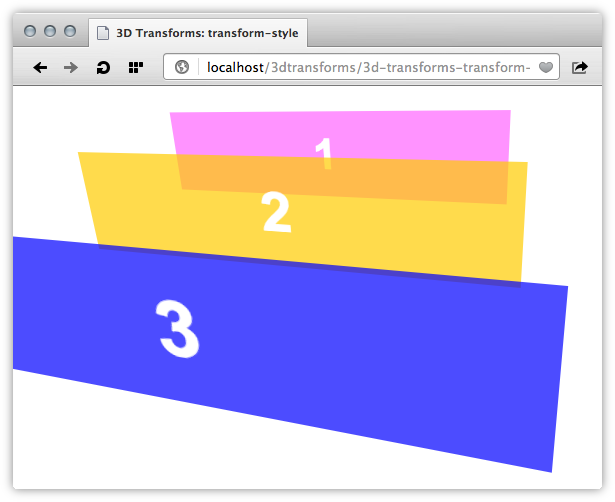
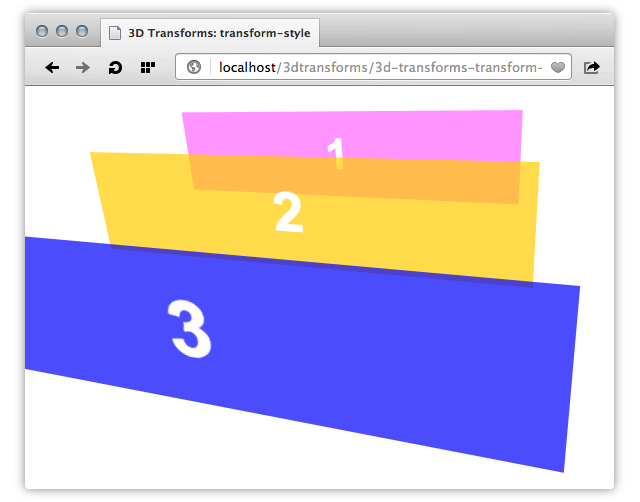
Adding new screen shots. And rewriting section on transform-style.

diff --git a/index.html b/index.html
@@ -33,6 +33,7 @@
 		    <code>rotate3d()</code>, <code>rotateX()</code> and <code>rotateY()</code></a>
 		</li>
 	</ol></li>
+	<li><a href="#learnmore">Learn More</a></li>
 </ol>
 
 <p>Opera 14 adds a lot of goodies under its hood, including <a href="http://www.w3.org/TR/css3-transforms/">three-dimensional CSS transforms</a> (<a href="http://dev.opera.com/articles/view/css3-transitions-and-2d-transforms/">2D transforms</a> have been available since Opera 10.50). In this article we'll dig in to 3D transforms, looking at the fundamental differences compared to 2D, the 3D transforms available, and sharing some demos to show how these work.</p>
@@ -51,7 +52,7 @@
 <p>If we think of our drawing surface as a <a href="http://en.wikipedia.org/wiki/Coordinate_system">coordinate system</a>, we can also think of our vanishing point as the <strong>origin</strong>. In a three-dimensional coordinate system, the origin is the location where the point along the x, y, and z axes is equal to zero (0,0,0) (see <a href="#origin">Figure 2</a>).</p>
 
 <figure id="origin">
-<!-- SVG --->
+<!-- SVG -->
 <svg
    xmlns:dc="http://purl.org/dc/elements/1.1/"
    xmlns:cc="http://creativecommons.org/ns#"
@@ -318,7 +319,7 @@
     perspective-origin: 200% 1500px;
 }</code></pre>
 
-<p>As <a href="#persporigin">shown below</a>, this CSS creates the effect of looking at our child elements towards a point that is 200% along the x-axis and 1500 pixels along the y-axis.</p>
+<p>As <a href="#persporigin">shown below</a> in Figure 4, this CSS creates the effect of looking at our child elements towards a point that is 200% along the x-axis and 1500 pixels along the y-axis.</p>
 
 <figure id="persporigin">
 <img src="3d-transforms-perspective-origin.png">
@@ -367,13 +368,20 @@
 
 <h4 id="transstyle">Setting a <code>transform-style</code></h4>
 
-<p>As with a paper drawing, three-dimensional transforms map three dimensions of coordinates into the two dimensions of a screen. By default, transformed objects behave as a single plane. However, we can mimic multi-sided objects by using the <code>transform-style</code> property. Valid values for the <code>transform-style</code> property are <code>flat</code> and <code>preserve-3d</code>. The default is <code>flat</code>.</p>
+<p>As with a paper drawing, three-dimensional transforms map three dimensions of coordinates into the two dimensions of a screen. By default, transformed objects behave as a single plane. To mimic depth and dimension, we need to explicitly change that behavior, with the the <code>transform-style</code> property. Valid values for the <code>transform-style</code> property are <code>flat</code> and <code>preserve-3d</code>. The default is <code>flat</code>.</p>
 
-<p>In <a href="#transformstyle">Figure 6</a> below, we have two cards with the same markup and largely the same CSS. However, for the left card, the value of the <code>transform-style</code> property is <code>flat</code>. For the right card, the value is <code>preserve-3d</code>. If we flip them over, as shown in our <a href="3d-transforms-transform-style.html">3D transform-style demo</a>, we can see that the left card appears to be a flattened plane. We can, however, see the other side of the card on the right.</p>
+<p>In <a href="#transformstyle">Figure 6</a> below, we have three objects whose positions have been translated in the z-direction. Their parent element has also been rotated slightly. When the value of <code>transform-style</code> &#8212; applied here to the parent element &#8212; is <code>preserve-3d</code>, we see that the transformation shows three elements in faux three dimensional space.</p> 
 
 <figure id="transformstyle">
 <img src="3d-transforms-transstyle.png">
-<figcaption>Figure 6: The card on the left has a <code>transform-style</code> of <code>flat</code> while the one on the right has a value of <code>preserve-3d</code>.</figcaption>
+<figcaption>Figure 6: The parent element for these three objects has a <code>transform-style</code> value of <code>preserve-3d</code>.</figcaption>
+</figure>
+
+<p>Contrast that with <a href="#transformstyleflat">Figure 7</a>, in which the value of <code>transform-style</code> is <code>flat</code>. These same objects are now rendered as a flattened stack (<a href="http://localhost/3dtransforms/3d-transforms-transform-style.html">demo</a>).</p>
+
+<figure id="transformstyleflat">
+<img src="3d-transforms-transstyle-flat.png">
+<figcaption>Figure 7: The parent element in this example has a  <code>transform-style</code> value of <code>flat</code>, instead of <code>preserve-3d</code>.</figcaption>
 </figure>
 
 <p>Using <code>transform-style: preserve-3d</code> also establishes a stacking context but in some cases, a CSS property can override this. According to their respective specifications, the following properties and values require the user agent to create a flattened representation of child elements before they can be applied.</p>
@@ -384,7 +392,7 @@
 	<li><code>filter</code> when the value is other than <code>none</code></li>
 </ul>
 
-<p></p>
+<p>If your transform isn't rendering correctly, despite using <code>transform-style: preserve-3d</code>, one of these properties is probably the culprit.</p>
 
 
 <h2 id="transformfuncs">The transform functions</h2>
@@ -454,7 +462,7 @@ console.log(matrix);</code></pre>
 
 <p>Using <code>getComputedStyle()</code> has its limits of course. It only returns the computed value for a single element. It does not tell you the whether its parent element has also been transformed.</p>
 
-<p>Since using <code>matrix3d()</code> can make your CSS more obtuse than necessary, it's best to stick to the transform functions. I'll assume you're already familiar with two-dimensional transforms. For the rest of this article, we'll focus exclusively on 3D transform functions. if you need a primer on 2D transforms, read <a href="http://dev.opera.com/articles/view/css3-transitions-and-2d-transforms/">CSS3 transitions and 2D transforms</a>, our previous article on the subject.</p>
+<p>Since using <code>matrix3d()</code> can make your CSS more obtuse than necessary, it's best to stick to the transform functions. I'll assume you're already familiar with two-dimensional transforms. For the rest of this article, we'll focus exclusively on 3D transform functions. If you need a primer on two-dimensional transforms, read <a href="http://dev.opera.com/articles/view/css3-transitions-and-2d-transforms/">CSS3 transitions and 2D transforms</a>, our previous article on the subject.</p>
 
 <h3 id="translating">Translating objects with <code>translateZ()</code> and <code>translate3d()</code></h3>
 
@@ -489,26 +497,26 @@ console.log(matrix);</code></pre>
 
 <figure id="rotateYscaleZ">
 	<img src="3d-transforms-Zmorethan0.gif" alt="Finding the matrix product of a y-axis rotation and a z-axis scaling transform">
-	<figcaption>
+	<figcaption>Figure 13: Finding the transformed coordinates of a point at (100,200,0).</figcaption>
 </figure>
-</div> 
+
 
 <p>As with two-dimensional scaling, positive numbers greater than 1 increase the value of the z-coordinate. Positive numbers that are greater than zero but less than 1 will decrease them. Negative values for scaling along the z axis will cause the object to appear flipped or mirrored. You can get a sense of how these values interact in the <a href="3d-transforms-scale3d.html">3d scaling demo</a>.</p>
 
 <h3 id="rotating">Rotating objects with <code>rotateX()</code>, <code>rotateY()</code> and <code>rotateZ()</code> and <code>rotate3d()</code></h3>
 
-<p>As these function names suggest, <code>rotateX()</code>, <code>rotateY()</code> and <code>rotateZ()</code> rotate an object around the x, y or z axis. Rotations using <code>rotateX()</code> spin elements around a horizontal axis (<a href="#rotatex">Figure 13</a>), while those using <code>rotateY()</code> spin elements around a vertical axis.</p>
+<p>As these function names suggest, <code>rotateX()</code>, <code>rotateY()</code> and <code>rotateZ()</code> rotate an object around the x, y or z axis. Rotations using <code>rotateX()</code> spin elements around a horizontal axis (<a href="#rotatex">Figure 14</a>), while those using <code>rotateY()</code> spin elements around a vertical axis.</p>
 
 <figure id="rotatex">
 <img src="3d-transforms-rotateX.png">
-<figcaption>Figure 13: Using <code>rotateX()</code> to tilt objects.</figcaption>
+<figcaption>Figure 14: Using <code>rotateX()</code> to tilt objects.</figcaption>
 </figure>
 
 <p>Rotations using <code>rotateZ()</code> are like those of a pinwheel or the hands of an analog clock (<a href="#rotatez">Figure 14</a>). They spin around the z-axis, behaving exactly like the 2D <code>rotate()</code> transform function. In fact, <code>rotateZ()</code> and <code>rotate()</code> are aliases. If you are only rotating around the z-axis, <code>rotate()</code> offers the broadest compatibility with older browsers. You can see how each of these functions work in this <a href="3d-transforms-rotateXYZ.html">3D rotation demo</a>.</p>
 
 <figure id="rotatez">
 <img src="3d-transforms-rotateZ.png">
-<figcaption>Figure 14: Using <code>rotateZ()</code> to tilt objects.</figcaption>
+<figcaption>Figure 15: Using <code>rotateZ()</code> to tilt objects.</figcaption>
 </figure>
 
 <p>Each of these functions accept a CSS angle as an argument. Valid values may be degrees (e.g. <code>45deg</code>), radians (e.g. <code>.21rad</code>), gradians (e.g. <code>100grad</code>), or turns (e.g. <code>.25turn</code>). Units are defined in the <a href="http://www.w3.org/TR/css3-values/#angles">angles section</a> of the CSS Values and Units Module Level 3 specification.</p>
@@ -517,7 +525,7 @@ console.log(matrix);</code></pre>
 
 <figure id="rotate3d">
 <img src="3d-transforms-rotate3d.png">
-<figcaption>Figure 15: Rotating around two axes using  <code>rotate3d(1,1,0,45deg)</code>.</figcaption>
+<figcaption>Figure 16: Rotating around two axes using  <code>rotate3d(1,1,0,45deg)</code>.</figcaption>
 </figure>
 
 <p>In <a href="#rotate3d">Figure 15</a>, we've tilted these objects by 45 degrees along both the x and y axes. This is actually the equivalent of <code>transform: rotateX(45deg) rotateY(45deg)</code>. Similarly, <code>rotate3d(0,0,1,45deg)</code> is equivalent to <code>rotateZ(45deg)</code> and <code>rotate(45deg)</code>.</p> 
@@ -534,7 +542,7 @@ console.log(matrix);</code></pre>
 
 <p>As you can see, the largest difference between the two matrices are the fifth and tenth parameters. They're 10 times greater in the first matrix than the second, but the values are still small. As a result, when the matrix is applied, the effect is slightly, not wildly different. By manipulating each value in the <a href="3d-transforms-rotate3d.html"><code>rotate3d()</code></a> demo, you can get a better sense of how they interplay.</p>
 
-<h2>Learn More</h2>
+<h2 id="learnmore">Learn More</h2>
 
 <p>I hope I've cleared up how three-dimensional transforms work without throwing too much linear algebra and geometry at you. Understanding the underlying math goes a long way toward understanding how transforms work and where they might go wrong. I found the following resources helpful.</p>
 

diff --git a/3d-transforms-transform-style.html b/3d-transforms-transform-style.html
@@ -76,7 +76,7 @@ figure{margin: 0;}
 }
 
 
-label{margin-left: 1em;}
+label{margin-left: 1em; cursor: pointer;}
 
 </style>
 
